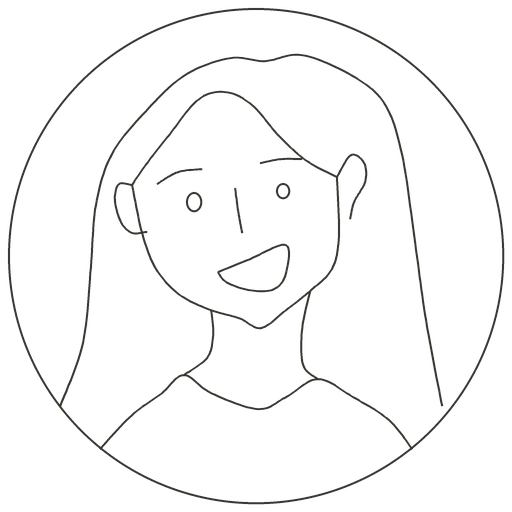
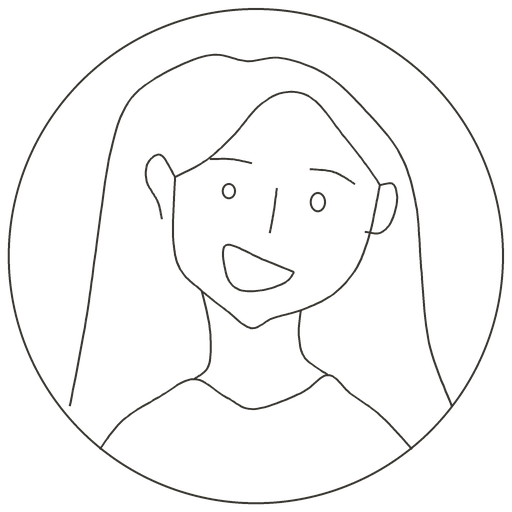
fix: reorder portraits and refine sketch details

diff --git a/deblock/web/index.html b/deblock/web/index.html
@@ -85,8 +85,8 @@
     <form id="profile-form">
       <fieldset id="avatar-picker" hidden>
         <legend>Choose your picture</legend>
-        <label class="avatar-choice"><input id="avatar-1" type="radio" name="avatar" value="1" checked aria-label="Short-haired portrait"><img src="/assets/avatars/portrait-1.png" alt=""></label>
         <label class="avatar-choice"><input id="avatar-2" type="radio" name="avatar" value="2" aria-label="Long-haired smiling portrait"><img src="/assets/avatars/portrait-2.png" alt=""></label>
+        <label class="avatar-choice"><input id="avatar-1" type="radio" name="avatar" value="1" checked aria-label="Short-haired portrait"><img src="/assets/avatars/portrait-1.png" alt=""></label>
         <label class="avatar-choice"><input id="avatar-3" type="radio" name="avatar" value="3" aria-label="Wavy-haired portrait"><img src="/assets/avatars/portrait-3.png" alt=""></label>
       </fieldset>
       <label for="profile-name">Name</label><input id="profile-name" type="text" maxlength="100" autocomplete="nickname">

diff --git a/scripts/prepare_avatars.py b/scripts/prepare_avatars.py
@@ -65,8 +65,7 @@ PORTRAITS = [
         [(230,308),(232,341),(224,366),(199,388)],
         [(324,246),(330,271),(324,302),(317,331),(320,365),(328,390),(326,426),(331,467)],
         [(100,449),(129,424),(165,407),(199,388),(216,408),(252,427),(283,416),(319,402)],
-        [(412,449),(391,417),(377,397),(381,382),(402,392),(425,397)],
-        [(377,397),(371,424)],
+        [(425,382),(425,397),(402,392),(381,382),(377,397),(371,424)],
     ],
 ]
 EYES = [
@@ -105,7 +104,10 @@ def prepare(destination: Path) -> None:
         for x, y, rx, ry in EYES[index-1]:
             draw.ellipse(tuple(v*SCALE for v in (x-rx,y-ry,x+rx,y+ry)), outline=INK, width=2*SCALE)
         draw.ellipse((8*SCALE,8*SCALE,504*SCALE,504*SCALE), outline=INK, width=2*SCALE)
-        art.resize((SIZE,SIZE), Image.Resampling.LANCZOS).save(destination / f'portrait-{index}.png')
+        art = art.resize((SIZE,SIZE), Image.Resampling.LANCZOS)
+        if index == 2:
+            art = art.transpose(Image.Transpose.FLIP_LEFT_RIGHT)
+        art.save(destination / f'portrait-{index}.png')
 
 
 if __name__ == '__main__':
